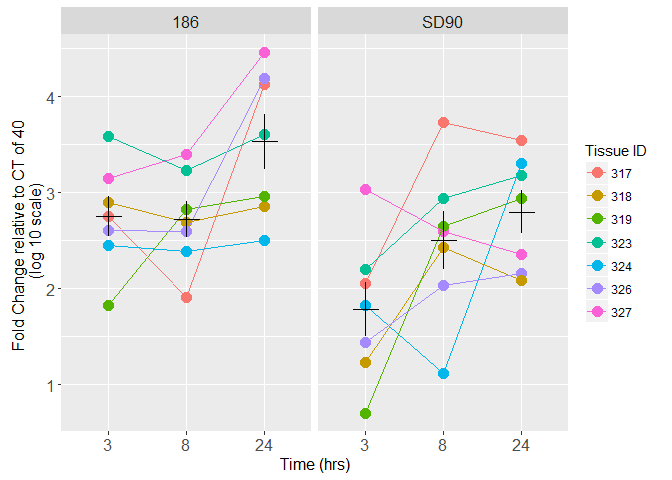
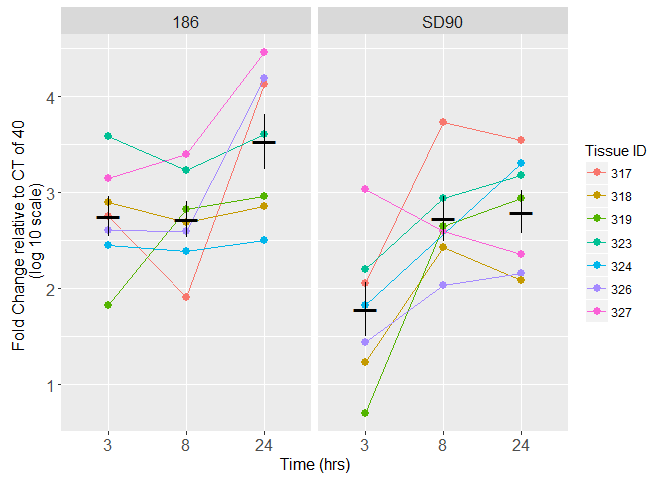
removed a data from a D2 sample from the explant data set

diff --git a/qPCR_results.md b/qPCR_results.md
@@ -1,3 +1,7 @@
+qPCR of vaginal explant and epithelial cell RNA
+================
+March 11, 2016
+
 These data are from qPCR experiments done by Erik Layton (Corey/Zhu lab) using the same RNA that was used on the epithelial and explant microarray experiments.
 
 We chose one HSV2 gene (ICP27, Immediate Early) and used beta actin (ACTB) as a housekeeper for the epithelial cell assay. The assays use a FAM dye label and a non-fluorescent quencher. Samples were assayed in replicate.
@@ -19,7 +23,7 @@ Caveats for epithelial cell qPCR data:
 
 These replicates got "Undetermined" results from the qPCR machine, but all were Mock samples and the concentration looks ok.
 
-<table>
+<table style="width:69%;">
 <colgroup>
 <col width="15%" />
 <col width="16%" />
@@ -91,9 +95,9 @@ Explant Results
 
 For these samples, Erik did not use a housekeeping gene and we didn't use the Mock samples since the explants were not size-standardized. All explants were exposed to the same amount of virus, but if an explant used for the Mock treatment was bigger than a "treated" explant, and therefore had more cellular RNA, the relative method of analysis would be inaccurate.
 
-Two samples had undetermined values. Maybe the concentrations were too low? For these, I used the value of the other replicate instead of the average of the two.
+One sample had an undetermined value. Maybe the concentration was too low? I used the value of the other replicate instead of the average of the two.
 
-<table>
+<table style="width:67%;">
 <colgroup>
 <col width="15%" />
 <col width="16%" />
@@ -115,12 +119,6 @@ Two samples had undetermined values. Maybe the concentrations were too low? For 
 <td align="center">3</td>
 <td align="center">4.89</td>
 </tr>
-<tr class="even">
-<td align="center">324</td>
-<td align="center">SD90</td>
-<td align="center">8</td>
-<td align="center">5.47</td>
-</tr>
 </tbody>
 </table>
 
@@ -132,11 +130,11 @@ Method for analysis of explant samples:
 
 -   Fold Change = 2^dCT
 
-Here are plots of fold change for each donor. The "Fold Change" is relative to an assumed Mock avg CT of 40.
+Here are plots of fold change for each donor. The "Fold Change" is relative to an assumed Mock avg CT of 40. Note that we are missing a data point for 324 8hr time point for SD90. We didn't find RNA for this sample.
 
 ![](qPCR_results_files/figure-markdown_github/unnamed-chunk-5-1.png)
 
-Here is a plot of the same data but with all of the the donors together. Black dots are the mean and error bars represent one standard error from the mean.
+Here is a plot of the same data but with all of the the donors together. Black bars are the mean and error bars represent one standard error from the mean.
 
 ![](qPCR_results_files/figure-markdown_github/unnamed-chunk-6-1.png)
 
@@ -151,8 +149,9 @@ Erik's remarks on the data:
 
 <!-- -->
 
-    ## R version 3.1.2 (2014-10-31)
+    ## R version 3.3.0 (2016-05-03)
     ## Platform: x86_64-w64-mingw32/x64 (64-bit)
+    ## Running under: Windows 7 x64 (build 7601) Service Pack 1
     ## 
     ## locale:
     ## [1] LC_COLLATE=English_United States.1252 
@@ -165,13 +164,13 @@ Erik's remarks on the data:
     ## [1] stats     graphics  grDevices utils     datasets  methods   base     
     ## 
     ## other attached packages:
-    ## [1] ggplot2_2.0.0     reshape2_1.4.1    pander_0.5.2      plateR_0.2.0.9000
-    ## [5] stringr_1.0.0     dplyr_0.4.3      
+    ## [1] ggplot2_2.1.0  reshape2_1.4.1 pander_0.6.0   plater_1.0.0  
+    ## [5] stringr_1.1.0  dplyr_0.5.0   
     ## 
     ## loaded via a namespace (and not attached):
-    ##  [1] assertthat_0.1   colorspace_1.2-6 DBI_0.3.1        digest_0.6.8    
-    ##  [5] evaluate_0.7.2   formatR_1.2      grid_3.1.2       gtable_0.1.2    
-    ##  [9] htmltools_0.2.6  knitr_1.11       labeling_0.3     lazyeval_0.1.10 
-    ## [13] magrittr_1.5     munsell_0.4.2    parallel_3.1.2   plyr_1.8.3      
-    ## [17] R6_2.1.1         Rcpp_0.12.0      rmarkdown_0.8    scales_0.3.0    
-    ## [21] stringi_0.5-5    tools_3.1.2      yaml_2.1.13
+    ##  [1] Rcpp_0.12.6      knitr_1.14       magrittr_1.5     munsell_0.4.3   
+    ##  [5] colorspace_1.2-6 R6_2.1.3         plyr_1.8.4       tools_3.3.0     
+    ##  [9] grid_3.3.0       gtable_0.2.0     DBI_0.5          htmltools_0.3.5 
+    ## [13] yaml_2.1.13      lazyeval_0.2.0   assertthat_0.1   digest_0.6.10   
+    ## [17] tibble_1.1       formatR_1.4      evaluate_0.9     rmarkdown_1.0   
+    ## [21] labeling_0.3     stringi_1.1.1    scales_0.4.0
